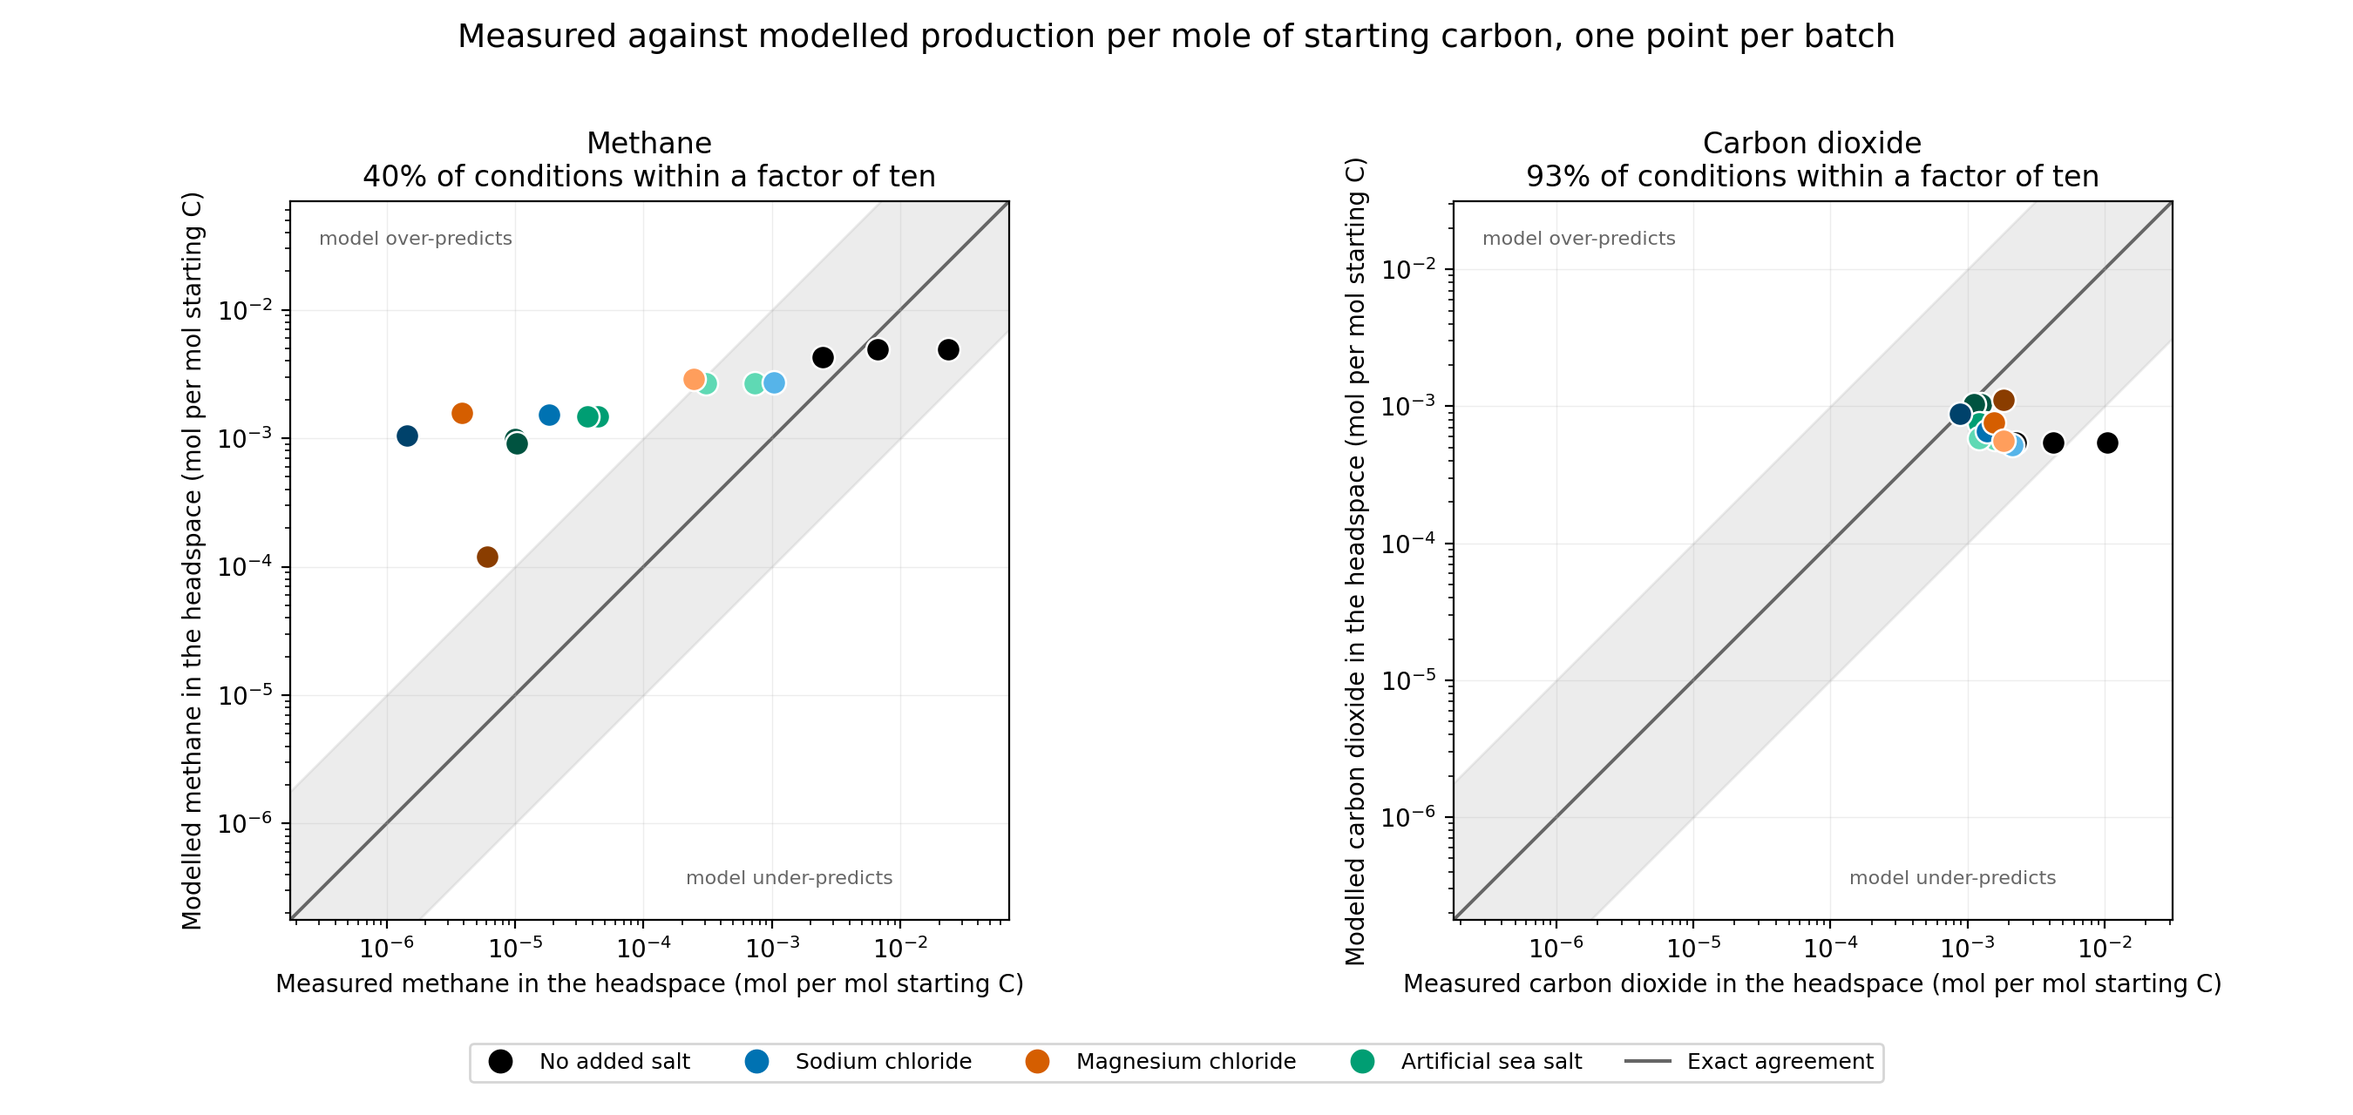
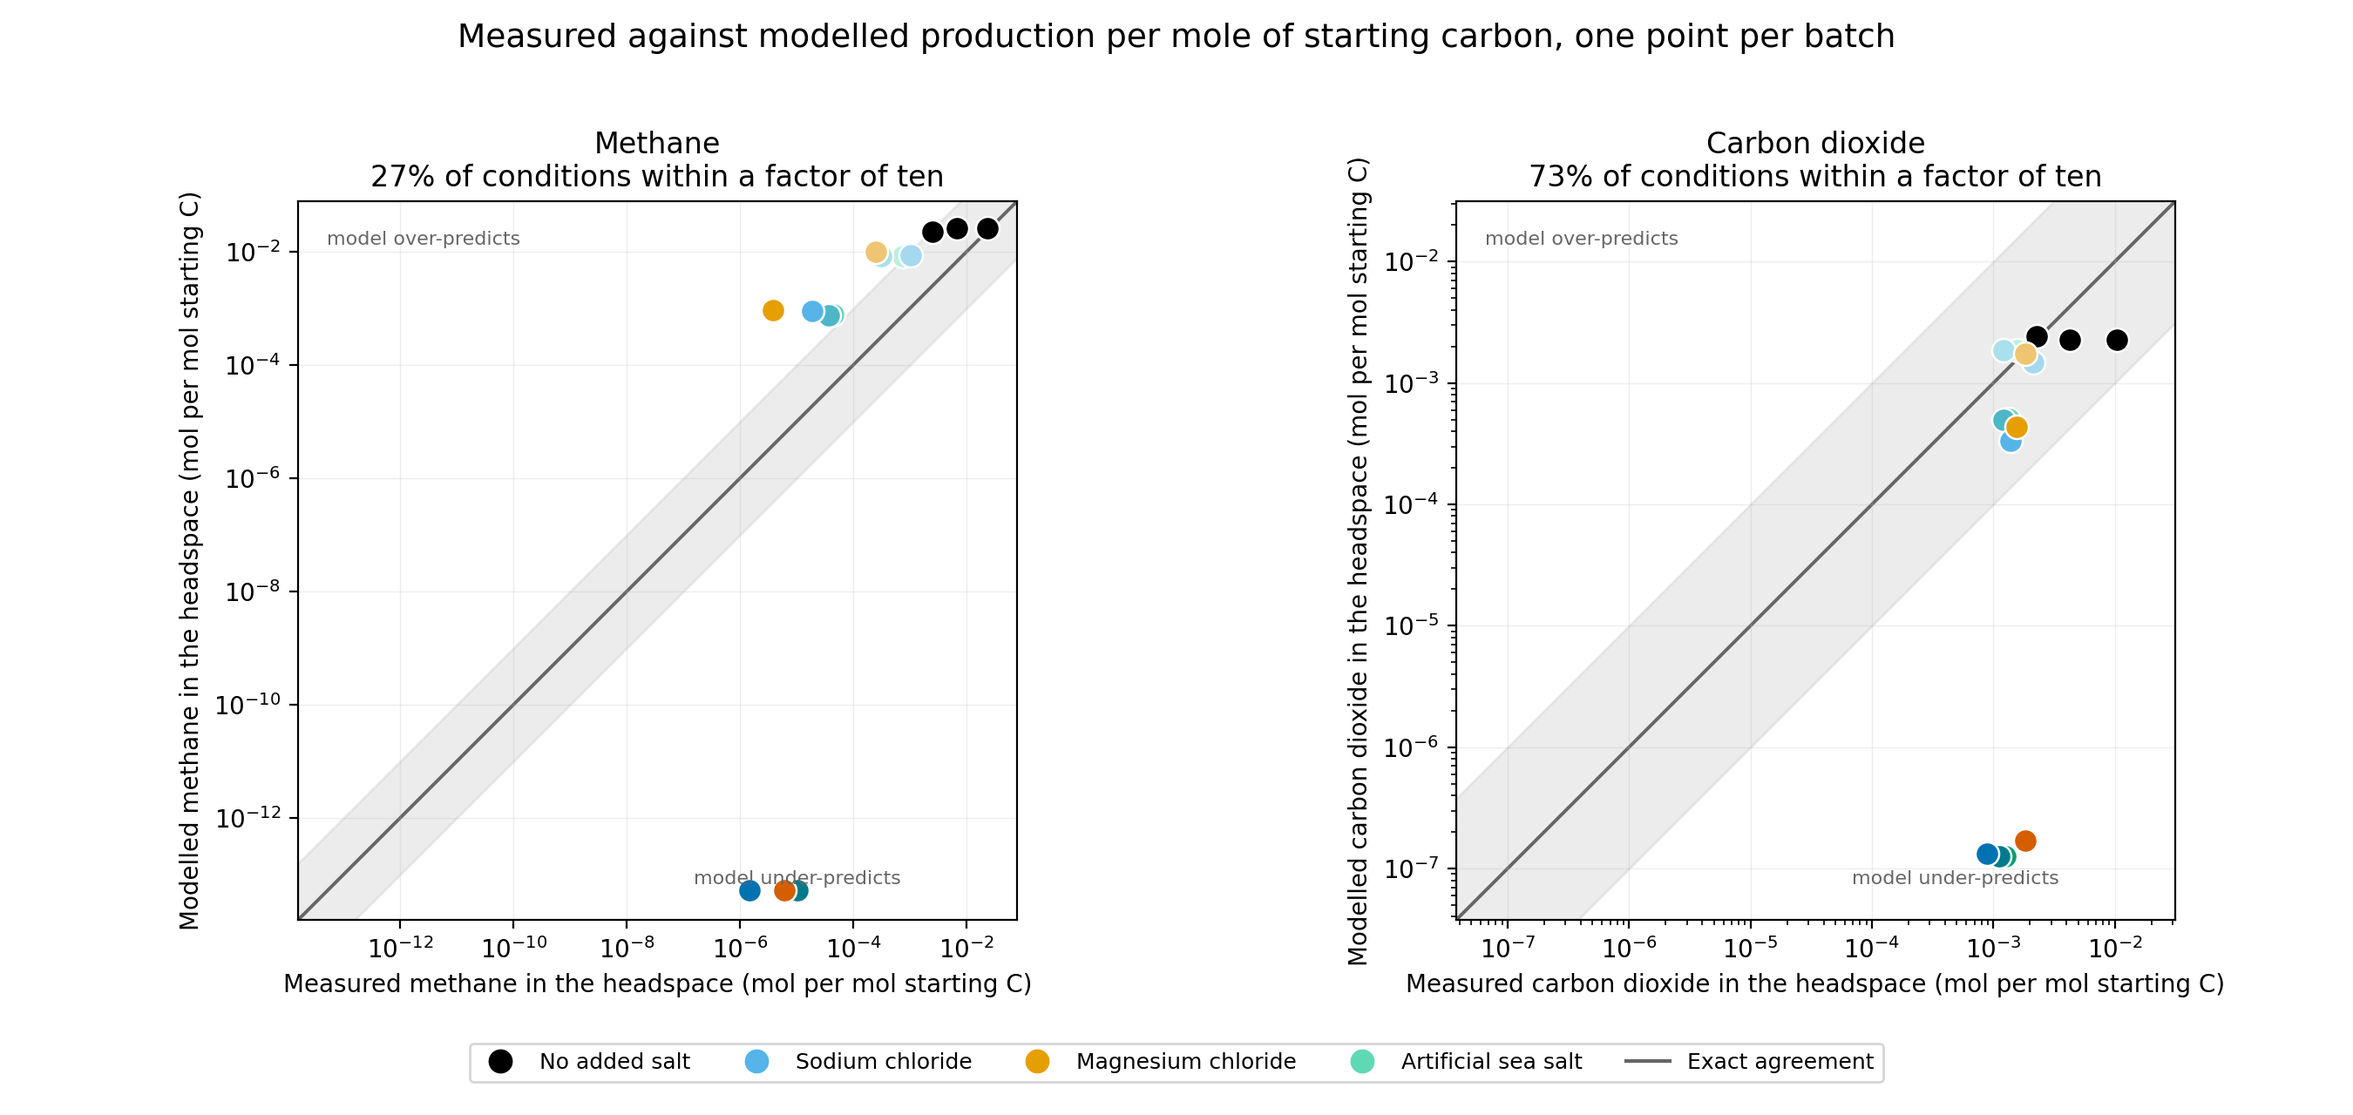
WIP snapshot before splitting a_w science changes into stacked PRs.
Captures uncommitted upstream inhibition, control-carbon rate/Ks tweaks,
palette, and regenerated comparison figures so nothing is lost.

diff --git a/src/pflotran_py/comparison/decks.py b/src/pflotran_py/comparison/decks.py
@@ -33,9 +33,70 @@ import pandas as pd
 
 from ..geochem.water_activity import pitzer_water_activity_from_batch
 from ..generator.bottle_generator import BOTTLE_FINAL_TIME_DAYS, BottleGenerator
+from ..generator.pflotran_generator import (
+    DEFAULT_CELLULOSE_HYDROLYSIS,
+    DEFAULT_RATE_CONSTANTS,
+)
 from .brines import to_pflotran_constraints
 
 logger = logging.getLogger(__name__)
+
+
+def one_minus_aw_factor(water_activity, a_crit):
+    """Same continuous factor the AWINHIBIT sandboxes use: max(0,(a_w-a_crit)/(1-a_crit))."""
+    a_w = float(water_activity)
+    crit = float(a_crit)
+    if crit >= 1.0:
+        return 1.0
+    if a_w <= crit:
+        return 0.0
+    return (a_w - crit) / (1.0 - crit)
+
+
+def _fortran_float(value):
+    """Parse a PFLOTRAN-style float string such as ``2.d-7``."""
+    return float(str(value).strip().lower().replace("d", "e"))
+
+
+def _to_fortran_rate(value):
+    """Emit a PFLOTRAN-friendly scientific literal."""
+    return f"{float(value):.1e}".replace("e", "d")
+
+
+def _apply_aw_upstream_inhibition(kwargs):
+    """Scale fermentation and cellulose hydrolysis by ONE_MINUS_AW on fixed a_w.
+
+    Closed-batch decks pass a constant FIXED_WATER_ACTIVITY, so multiplying the
+    upstream rate constants by the same factor the methanogenesis sandboxes use
+    is equivalent to inhibiting those steps with a_w -- without a new Fortran
+    sandbox. Controls (a_w = 1) are unchanged.
+    """
+    fixed = kwargs.get("fixed_water_activity")
+    if fixed is None:
+        return kwargs
+
+    ferment_crit = kwargs.pop("aw_threshold_fermentation", 0.90)
+    hydro_crit = kwargs.pop("aw_threshold_hydrolysis", 0.85)
+    f_ferment = one_minus_aw_factor(fixed, ferment_crit)
+    f_hydro = one_minus_aw_factor(fixed, hydro_crit)
+
+    rates = dict(kwargs.get("rate_constants") or {})
+    base_ferment = rates.get(
+        "fermentation", DEFAULT_RATE_CONSTANTS["fermentation"]
+    )
+    rates["fermentation"] = base_ferment * f_ferment
+    kwargs["rate_constants"] = rates
+
+    if kwargs.get("cellulose_hydrolysis") is not None:
+        hydro = {
+            **DEFAULT_CELLULOSE_HYDROLYSIS,
+            **dict(kwargs["cellulose_hydrolysis"]),
+        }
+        base_hydro = _fortran_float(hydro["rate_constant"])
+        hydro["rate_constant"] = _to_fortran_rate(base_hydro * f_hydro)
+        kwargs["cellulose_hydrolysis"] = hydro
+
+    return kwargs
 
 
 def deck_filename(batch_row):
@@ -88,6 +149,14 @@ def generate_deck_for_batch(
                 f"Unknown water_activity_source {source!r}; "
                 "expected 'pitzer', 'measured', or 'pflotran'"
             )
+
+    aw_upstream = kwargs.pop("aw_upstream_inhibition", False)
+    if not aw_upstream:
+        kwargs.pop("aw_threshold_fermentation", None)
+        kwargs.pop("aw_threshold_hydrolysis", None)
+    else:
+        kwargs = _apply_aw_upstream_inhibition(kwargs)
+
     pitzer_aw = kwargs.get("fixed_water_activity")
     if pitzer_aw is not None:
         label = (
@@ -173,7 +242,7 @@ def main():
     parser.add_argument(
         "--aw-threshold",
         type=float,
-        default=0.80,
+        default=0.91,
         help=(
             "Critical water activity for hydrogenotrophic methanogenesis "
             "(and the fallback if pathway-specific flags are omitted). With "
@@ -183,19 +252,19 @@ def main():
     parser.add_argument(
         "--aw-threshold-acetate",
         type=float,
-        default=0.90,
+        default=0.92,
         help=(
-            "a_crit for acetoclastic methanogenesis. Default 0.90 (most "
+            "a_crit for acetoclastic methanogenesis. Default 0.92 (most "
             "salt-sensitive of the three); literature ordering, not a fit."
         ),
     )
     parser.add_argument(
         "--aw-threshold-methyl",
         type=float,
-        default=0.85,
+        default=0.91,
         help=(
-            "a_crit for methylotrophic methanogenesis. Default 0.85 "
-            "(between acetoclastic and hydrogenotrophic)."
+            "a_crit for methylotrophic methanogenesis. Default 0.91 "
+            "(with hydrogenotrophic; acetoclastic is higher)."
         ),
     )
     parser.add_argument(
@@ -206,6 +275,27 @@ def main():
             "Shape of the a_w rate factor. ONE_MINUS_AW is continuous in "
             "(1-a_w); SMOOTHSTEP is a log10 logistic (interval 0.20)."
         ),
+    )
+    parser.add_argument(
+        "--aw-upstream-inhibition",
+        action="store_true",
+        help=(
+            "Also scale fermentation and cellulose hydrolysis by ONE_MINUS_AW "
+            "on each batch's fixed a_w (default a_crit 0.85). Osmotic stress "
+            "hits the whole cascade, not only methanogens."
+        ),
+    )
+    parser.add_argument(
+        "--aw-threshold-fermentation",
+        type=float,
+        default=0.90,
+        help="a_crit for upstream fermentation rate scaling (with --aw-upstream-inhibition).",
+    )
+    parser.add_argument(
+        "--aw-threshold-hydrolysis",
+        type=float,
+        default=0.85,
+        help="a_crit for cellulose hydrolysis rate scaling (with --aw-upstream-inhibition).",
     )
     parser.add_argument(
         "--experiments",
@@ -295,6 +385,14 @@ def main():
         # near pH 7.5 (Ki = 3.16e-8) matches the upper edge of the usual
         # acetoclast optimum without fitting methane.
         extra["thresholds"] = {"h_plus_inhibition_3": 3.16e-8}
+        # Acetate half-saturation in the inherited network is 40 mM, far above
+        # literature acetoclastic Ks (typically ~0.2-5 mM). After raising
+        # hydrolysis, controls bank ~80 mM acetate. Use 2 mM (within the
+        # Methanosaeta/Methanosarcina range) so Monod stays near saturation
+        # while the pool is drawn down; not a methane-endpoint fit. Keep the
+        # network acetoclastic rate constant (1.5e-8); a 3x rate lift overshot
+        # control CH4.
+        extra["half_saturation"] = {"acetate": 2.0e-3}
     if args.salinity_threshold is not None:
         extra["salinity_inhibition"] = {
             "species": "Cl-",
@@ -313,6 +411,10 @@ def main():
         extra["water_activity_source"] = "pflotran"
     elif args.use_measured_aw:
         extra["water_activity_source"] = "measured"
+    if args.aw_upstream_inhibition:
+        extra["aw_upstream_inhibition"] = True
+        extra["aw_threshold_fermentation"] = args.aw_threshold_fermentation
+        extra["aw_threshold_hydrolysis"] = args.aw_threshold_hydrolysis
 
     if os.path.exists(args.composition):
         table = pd.read_csv(args.composition)

diff --git a/src/pflotran_py/generator/pflotran_generator.py b/src/pflotran_py/generator/pflotran_generator.py
@@ -166,18 +166,14 @@ DEFAULT_CELLULOSE_HYDROLYSIS = {
     "mineral": "Cellulose_min",
     "volume_fraction": 0.012182,
     "surface_area": "1.0e2",
-    # Chosen so that hydrolysis supplies carbon on the same timescale the
-    # network consumes it, rather than instantly. This is the parameter that
-    # makes hydrolysis rate-limiting, which is the point of the change.
-    #
-    # Tuned by sweep at the previous (unmatched) inventory. At 2.d-7 the
-    # dissolved pool still reaches 0.57 mol/L and keeps depressing water
-    # activity; at 2.d-10 carbon supply itself becomes the limit and modelled
-    # methane falls fivefold. At 2.d-8 the unsalted bottle holds 0.032 mol/L
-    # of dissolved organic matter, which is what an active sludge porewater
-    # looks like, and its water activity comes out at 0.9927 against a
-    # measured 1.000. Re-check a_w and DOC after changing volume_fraction.
-    "rate_constant": "2.d-8",
+    # Mineral kinetic rate [mol/m^2-sec]. With the matched ~0.0565 mol C
+    # inventory (VF 0.012182), 2.d-8 left ~70% of cellulose unhydrolyzed at
+    # 130 d and starved headspace CO2/CH4. The earlier 2.d-8 choice was a
+    # DOC/a_w compromise at the *old* VF~0.2 inventory, where 2.d-7 drove
+    # DOM1 to ~0.57 M. At the matched inventory the solid pool is ~16x
+    # smaller, so 2.d-7 is the literature-leaning step that still needs a
+    # control a_w / DOC check after every change.
+    "rate_constant": "2.d-7",
     # What remains dissolved. Millimolar rather than molar, which is what
     # sludge porewater dissolved organic carbon actually looks like.
     "dom1_initial": "1.00d-03 T",
@@ -253,9 +249,9 @@ class PFLOTRANGenerator:
         # range. a_crit defaults differ by pathway (acetoclastic most
         # salt-sensitive): see aw_threshold_acetate / _methyl. The shared
         # aw_threshold is the hydrogenotrophic floor and the fallback.
-        aw_threshold=0.80,
-        aw_threshold_acetate=0.90,
-        aw_threshold_methyl=0.85,
+        aw_threshold=0.91,
+        aw_threshold_acetate=0.92,
+        aw_threshold_methyl=0.91,
         aw_rate_constant=None,  # unused when per-pathway rates are emitted
         aw_inhibition_type="ONE_MINUS_AW",
         # When set, sandboxes use this a_w instead of PFLOTRAN's ideal Raoult

diff --git a/tests/test_aw_upstream_inhibition.py b/tests/test_aw_upstream_inhibition.py
@@ -1,0 +1,51 @@
+"""Upstream a_w scaling for fermentation / hydrolysis on closed-batch decks."""
+
+import pytest
+
+from pflotran_py.comparison.decks import (
+    _apply_aw_upstream_inhibition,
+    one_minus_aw_factor,
+)
+from pflotran_py.generator.pflotran_generator import DEFAULT_RATE_CONSTANTS
+
+
+def test_one_minus_aw_factor_matches_sandbox_shape():
+    assert one_minus_aw_factor(1.0, 0.85) == 1.0
+    assert one_minus_aw_factor(0.85, 0.85) == 0.0
+    assert one_minus_aw_factor(0.80, 0.85) == 0.0
+    assert one_minus_aw_factor(0.925, 0.85) == pytest.approx(0.5)
+
+
+def test_upstream_inhibition_scales_fermentation_and_hydrolysis():
+    kwargs = _apply_aw_upstream_inhibition(
+        {
+            "fixed_water_activity": 0.91,
+            "aw_threshold_fermentation": 0.85,
+            "aw_threshold_hydrolysis": 0.85,
+            "cellulose_hydrolysis": {},
+        }
+    )
+    expected = one_minus_aw_factor(0.91, 0.85)
+    assert kwargs["rate_constants"]["fermentation"] == pytest.approx(
+        DEFAULT_RATE_CONSTANTS["fermentation"] * expected
+    )
+    hydro_rate = float(
+        kwargs["cellulose_hydrolysis"]["rate_constant"].lower().replace("d", "e")
+    )
+    assert hydro_rate == pytest.approx(2.0e-7 * expected)
+
+
+def test_control_aw_leaves_upstream_rates_unchanged():
+    kwargs = _apply_aw_upstream_inhibition(
+        {
+            "fixed_water_activity": 1.0,
+            "cellulose_hydrolysis": {},
+        }
+    )
+    assert kwargs["rate_constants"]["fermentation"] == DEFAULT_RATE_CONSTANTS[
+        "fermentation"
+    ]
+    hydro_rate = float(
+        kwargs["cellulose_hydrolysis"]["rate_constant"].lower().replace("d", "e")
+    )
+    assert hydro_rate == pytest.approx(2.0e-7)

diff --git a/tests/test_aw_inhibition_shape.py b/tests/test_aw_inhibition_shape.py
@@ -34,22 +34,21 @@ def test_one_minus_aw_factors_at_a_crit_0_80(a_w, expected):
 
 
 def test_comparison_default_emits_one_minus_aw():
-    gen = BottleGenerator(aw_threshold=0.80, aw_inhibition_type="ONE_MINUS_AW")
+    gen = BottleGenerator(aw_inhibition_type="ONE_MINUS_AW")
     block = gen._build_reaction_sandbox()
     assert "INHIBITION_TYPE ONE_MINUS_AW" in block
-    assert "WATER_ACTIVITY_THRESHOLD 0.8000" in block
+    assert "WATER_ACTIVITY_THRESHOLD 0.9100" in block
 
 
 def test_pathway_specific_aw_thresholds_are_ordered():
-    """Acetoclastic is most salt-sensitive, then methyl, then hydrogenotrophic."""
+    """Acetoclastic is most salt-sensitive; H2 and methyl share a lower a_crit."""
     gen = BottleGenerator(
-        aw_threshold=0.80,
-        aw_threshold_methyl=0.85,
-        aw_threshold_acetate=0.90,
+        aw_threshold=0.91,
+        aw_threshold_methyl=0.91,
+        aw_threshold_acetate=0.92,
         aw_inhibition_type="ONE_MINUS_AW",
     )
     block = gen._build_reaction_sandbox()
-    # Extract the threshold that follows each sandbox header.
     import re
 
     found = re.findall(
@@ -57,7 +56,7 @@ def test_pathway_specific_aw_thresholds_are_ordered():
         block,
     )
     by_name = {name: float(val) for name, val in found}
-    assert by_name["AWINHIBIT"] == 0.80
-    assert by_name["AWINHIBITMETHYL"] == 0.85
-    assert by_name["AWINHIBITACETATE"] == 0.90
-    assert by_name["AWINHIBITACETATE"] > by_name["AWINHIBITMETHYL"] > by_name["AWINHIBIT"]
+    assert by_name["AWINHIBIT"] == 0.91
+    assert by_name["AWINHIBITMETHYL"] == 0.91
+    assert by_name["AWINHIBITACETATE"] == 0.92
+    assert by_name["AWINHIBITACETATE"] > by_name["AWINHIBIT"]

diff --git a/tests/test_bottle_generator.py b/tests/test_bottle_generator.py
@@ -337,7 +337,7 @@ def test_hydrolysis_declares_the_mineral_everywhere_it_is_needed(tmp_path):
     the constraint, or PFLOTRAN either ignores it or refuses the deck."""
     deck = _hydrolysis_deck(tmp_path)
     assert deck.count("Cellulose_min") >= 3
-    assert "RATE_CONSTANT  2.d-8 mol/m^2-sec" in deck
+    assert "RATE_CONSTANT  2.d-7 mol/m^2-sec" in deck
 
 
 def test_hydrolysis_rate_is_overridable(tmp_path):

diff --git a/src/pflotran_py/comparison/figures.py b/src/pflotran_py/comparison/figures.py
@@ -75,6 +75,8 @@ def colour_for_brine(brine_name):
         family = "nacl"
     elif name.startswith("Mg_"):
         family = "mgcl2"
+    elif name.startswith("SWSu"):
+        family = "seasalt_su"
     elif name.startswith("SW"):
         family = "seasalt"
     else:

diff --git a/README.md b/README.md
@@ -560,15 +560,19 @@ inhibition) and multiplies by an a_w smoothstep. The network's three
 methane-producing `MICROBIAL_REACTION` blocks are omitted so the two do not
 double-produce methane. Comparison decks therefore use `--no-cl-inhibition`
 and `--aw-inhibition-type ONE_MINUS_AW` with pathway-specific
-`a_crit` (hydrogenotrophic 0.80, methylotrophic 0.85, acetoclastic 0.90 —
-acetoclasts fail first under salt; literature ordering, not a methane fit),
-and pass each batch's **Pitzer** water activity as `FIXED_WATER_ACTIVITY`
+`a_crit` (hydrogenotrophic/methylotrophic 0.91, acetoclastic 0.92),
+plus `--aw-upstream-inhibition` so fermentation and cellulose hydrolysis
+are scaled by the same ONE_MINUS_AW factor on each batch's fixed a_w
+(defaults: fermentation 0.90, hydrolysis 0.85). Also pass
+each batch's **Pitzer** water activity as `FIXED_WATER_ACTIVITY`
 so inhibition is not keyed on PFLOTRAN's ideal Raoult estimate (which is too
 high for Mg brines). With `--cellulose-hydrolysis`, the acetoclastic
 `H+_below` Monod Ki is also moved from 2.88×10⁻⁷ (half at pH ~6.5) to
 3.16×10⁻⁸ (half at pH ~7.5), matching the upper edge of the usual acetoclast
 optimum — otherwise bottle controls that drift to pH ~7.9 bank acetate and
-starve methane. Rebuild the container after pulling sandbox Fortran
+starve methane. The same cellulose decks use an acetate half-saturation of
+2 mM (literature acetoclast range; the network default is 40 mM) so banked
+acetate can be drawn down after the faster hydrolysis step. Rebuild the container after pulling sandbox Fortran
 changes.
 
 ### Running it
@@ -583,7 +587,8 @@ python -m pflotran_py.comparison.brines --output data/incubation_batch_compositi
 python -m pflotran_py.comparison.decks --output-dir decks \
     --cellulose-hydrolysis --no-cl-inhibition \
     --aw-inhibition-type ONE_MINUS_AW \
-    --aw-threshold 0.80 --aw-threshold-methyl 0.85 --aw-threshold-acetate 0.90
+    --aw-threshold 0.91 --aw-threshold-methyl 0.91 --aw-threshold-acetate 0.92 \
+    --aw-upstream-inhibition --aw-threshold-fermentation 0.90 --aw-threshold-hydrolysis 0.85
 
 # 3. Run them (needs the container image built; see Running PFLOTRAN above).
 python -m pflotran_py.comparison.run_decks --run-root runs --clean
@@ -683,7 +688,7 @@ inventory. The fitted Cl⁻ smoothstep is no longer used in the comparison.**
 
 | Parameter | Value | Fitted against | How | Status |
 |---|---|---|---|---|
-| Cellulose hydrolysis rate | `2.d-8` mol/m²/s | Exp004 **water activity**, not methane | Sweep of four values | In use |
+| Cellulose hydrolysis rate | `2.d-7` mol/m²/s | matched-inventory a_w / DOC check | 10× step from the old `2.d-8` DOC compromise | In use |
 | Salinity inhibition threshold | 0.75 mol/L Cl⁻ | Exp004 methane | Grid search, 24 combinations | **Retired** from comparison default |
 | Salinity inhibition interval | 1.0 decades | Exp004 methane | Same grid search | **Retired** from comparison default |
 
@@ -694,11 +699,12 @@ Monod, used alone, recovers a gradual decline. Those two fitted numbers remain
 in `calibrate` / `forecast` for reproducibility of the old protocol; the
 comparison decks omit `--salinity-threshold`.
 
-The hydrolysis rate was chosen so that the unsalted bottle's modelled water
-activity matched the meter reading of 1.000, and so that the dissolved organic
-pool landed at a concentration an active sludge porewater plausibly holds.
-Methane was not consulted. A faster rate leaves the organic pool depressing
-water activity; a slower one makes carbon supply itself the limiting factor.
+The hydrolysis rate was originally `2.d-8`, chosen at the unmatched VF~0.2
+inventory so modelled control a_w stayed near 1.000 and DOM stayed
+sludge-like. With starting C matched (~0.0565 mol, VF 0.012182), that rate
+left ~70% of cellulose unhydrolyzed at 130 d and starved headspace CO₂/CH₄.
+The comparison default is now `2.d-7`; re-check control a_w and DOC after
+any further change. Methane is still not the fitting target.
 
 A fourth number, the solid carbon volume fraction (**0.012182**), is
 **not** a methane fit: it is set so model starting C matches the

diff --git a/src/pflotran_py/generator/REFERENCES.md b/src/pflotran_py/generator/REFERENCES.md
@@ -83,6 +83,7 @@ and the absence of tidal flushing in the generator's batch system.
 | Fe(OH)₃ | 1.0 × 10⁻¹⁰ | 4.7 × 10⁻⁴ | Gao et al. (2010) |
 | SO₄²⁻ | 1.0 × 10⁻⁴ | 2.0 × 10⁻⁴ | Gao et al. (2010) |
 | DOM1 (fermentation) | 5.0 × 10⁻² | — | — |
+| Acetate⁻ | 2.0 × 10⁻³ (bottle cellulose decks) / 4.0 × 10⁻² (generator default) | — | Acetoclastic Kₛ typically 0.2–5 mM (Methanosaeta / Methanosarcina); bottle comparison overrides the 40 mM network default |
 | O₂ | 1.0 × 10⁻⁴ | 1.0 × 10⁻⁵ | — |
 
 ## Salinity Inhibition
